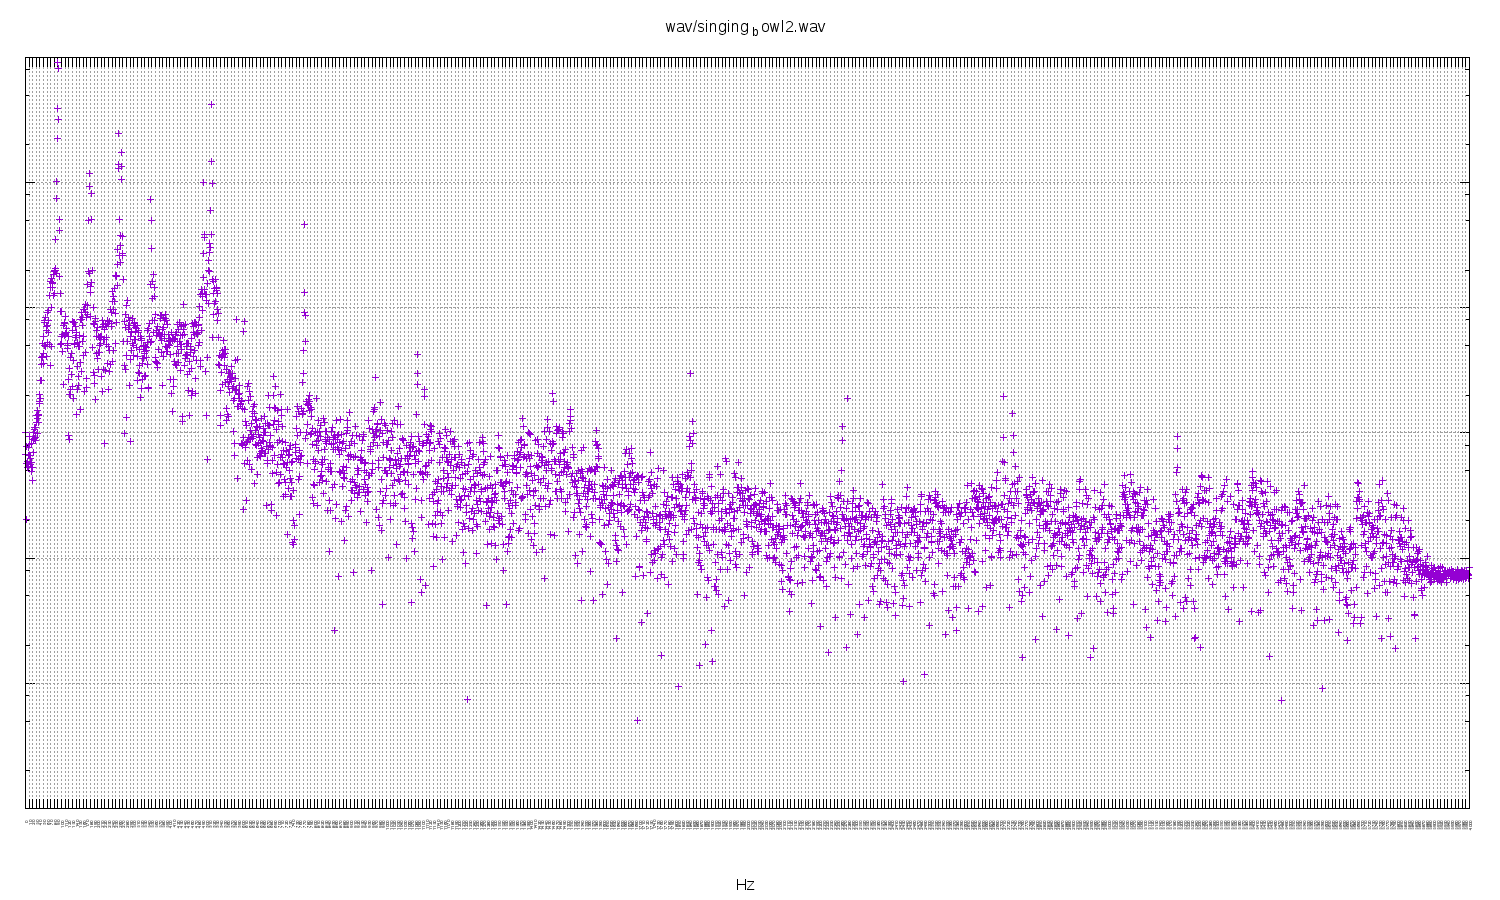
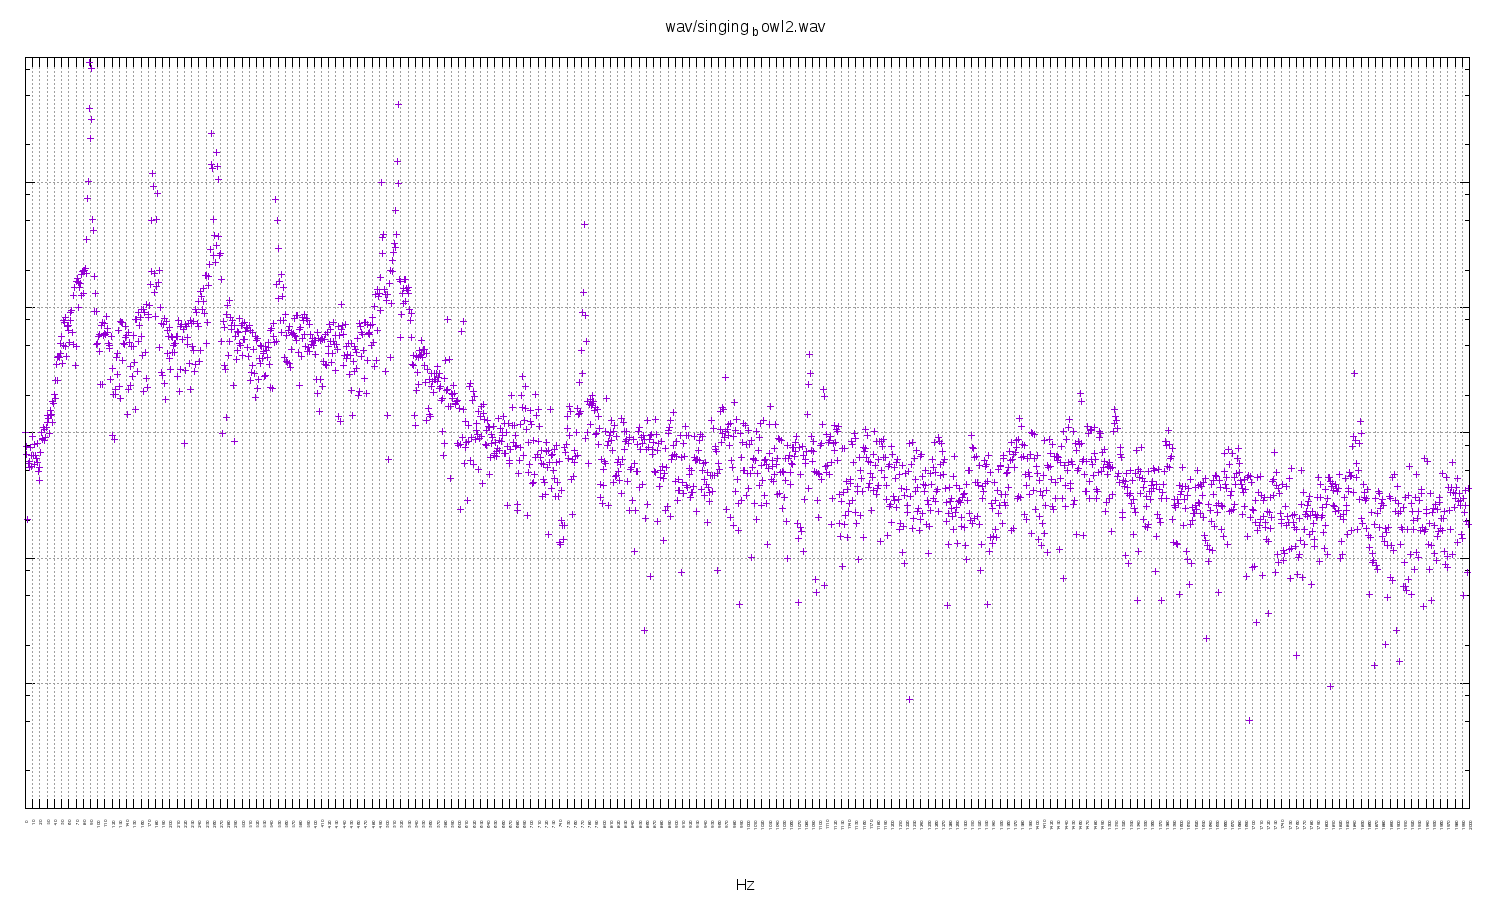
Add all synthesised overtone WAV, render half of DFT

diff --git a/dft.h b/dft.h
@@ -32,7 +32,7 @@ template <typename Iterator> auto calculate(Iterator begin, Iterator end) {
   // one-shot calculation it can be refactored into a single loop. Ordinarily
   // integers are used in for-loops but here a floating-point counter is used to
   // avoid a cast in the main calculation.
-  for (double k = 0.0; k < bins / 2; ++k) {
+  for (double k = 0.0; k < bins / 4; ++k) {
 
     // Loop over every sample for each frequency bin and store the result.
     std::vector<std::complex<double>> fou;

diff --git a/readme.md b/readme.md
@@ -1,6 +1,6 @@
 [![Build Status](https://travis-ci.org/deanturpin/dft.svg?branch=master)](https://travis-ci.org/deanturpin/dft)
 [![codecov](https://codecov.io/gh/deanturpin/dft/branch/master/graph/badge.svg)](https://codecov.io/gh/deanturpin/dft)
-Sat 16 Jun 17:48:28 BST 2018
+Sat 16 Jun 23:04:37 BST 2018
 ```cpp
 #ifndef DFT_H
 #define DFT_H
@@ -36,7 +36,7 @@ template <typename Iterator> auto calculate(Iterator begin, Iterator end) {
   // one-shot calculation it can be refactored into a single loop. Ordinarily
   // integers are used in for-loops but here a floating-point counter is used to
   // avoid a cast in the main calculation.
-  for (double k = 0.0; k < bins / 2; ++k) {
+  for (double k = 0.0; k < bins / 4; ++k) {
 
     // Loop over every sample for each frequency bin and store the result.
     std::vector<std::complex<double>> fou;
@@ -121,9 +121,8 @@ Listen to the [audio](wav/hobgoblin_didge_8000.wav.png).
 [![](wav/JF_fibreglass_slide.wav.png)](wav/JF_fibreglass_slide.wav.png)
 Peaks at: 81, 162, 243, 324 Hz.
 
-A fundamental of 81 Hz, just flat of E2. Equal presence of first octave, fifth
-(B3) and second octave. High frequency sparkle extends out as far as 1940 Hz.
-Very pure harmonics.
+A fundamental of 81 Hz, just flat of E2. First octave, fifth (B3) and second
+octave all quite strong.
 
 ```
 82.41	E2
@@ -196,3 +195,6 @@ Listen to the [audio](wav/synthesised_chord.wav.png).
 # wav/synthesised_chord_whole_freqs.wav
 [![](wav/synthesised_chord_whole_freqs.wav.png)](wav/synthesised_chord_whole_freqs.wav.png)
 Listen to the [audio](wav/synthesised_chord_whole_freqs.wav.png).
+# wav/synthesised_overtones.wav
+[![](wav/synthesised_overtones.wav.png)](wav/synthesised_overtones.wav.png)
+Listen to the [audio](wav/synthesised_overtones.wav.png).

diff --git a/pitch.md b/pitch.md
@@ -1,20 +1,20 @@
 ```
-1       82.41   E2
-2       164.82  E3
-3       247.23  B3
-4       329.64  E4
-5       412.05  G#4
-6       494.46  B4
-7       576.87  D5
-8       659.28  E5
-9       741.69  F#5
-10      824.1   G#5
-11      906.51  A5
-12      988.92  B5
+1       82.41   E2	fundamental
+2       164.82  E3	octave
+3       247.23  B3  fifth
+4       329.64  E4	octave
+5       412.05  G#4 major third
+6       494.46  B4	fifth
+7       576.87  D5	seventh
+8       659.28  E5	octave
+9       741.69  F#5 sixth
+10      824.1   G#5	major third
+11      906.51  A5	fourth
+12      988.92  B5	fifth
 13      1071.33 ??
-14      1153.74 D6
-15      1236.15 D#6
-16      1318.56 E6
+14      1153.74 D6	seventh
+15      1236.15 D#6	
+16      1318.56 E6	octave
 ```
 ```
 16.35	C0
